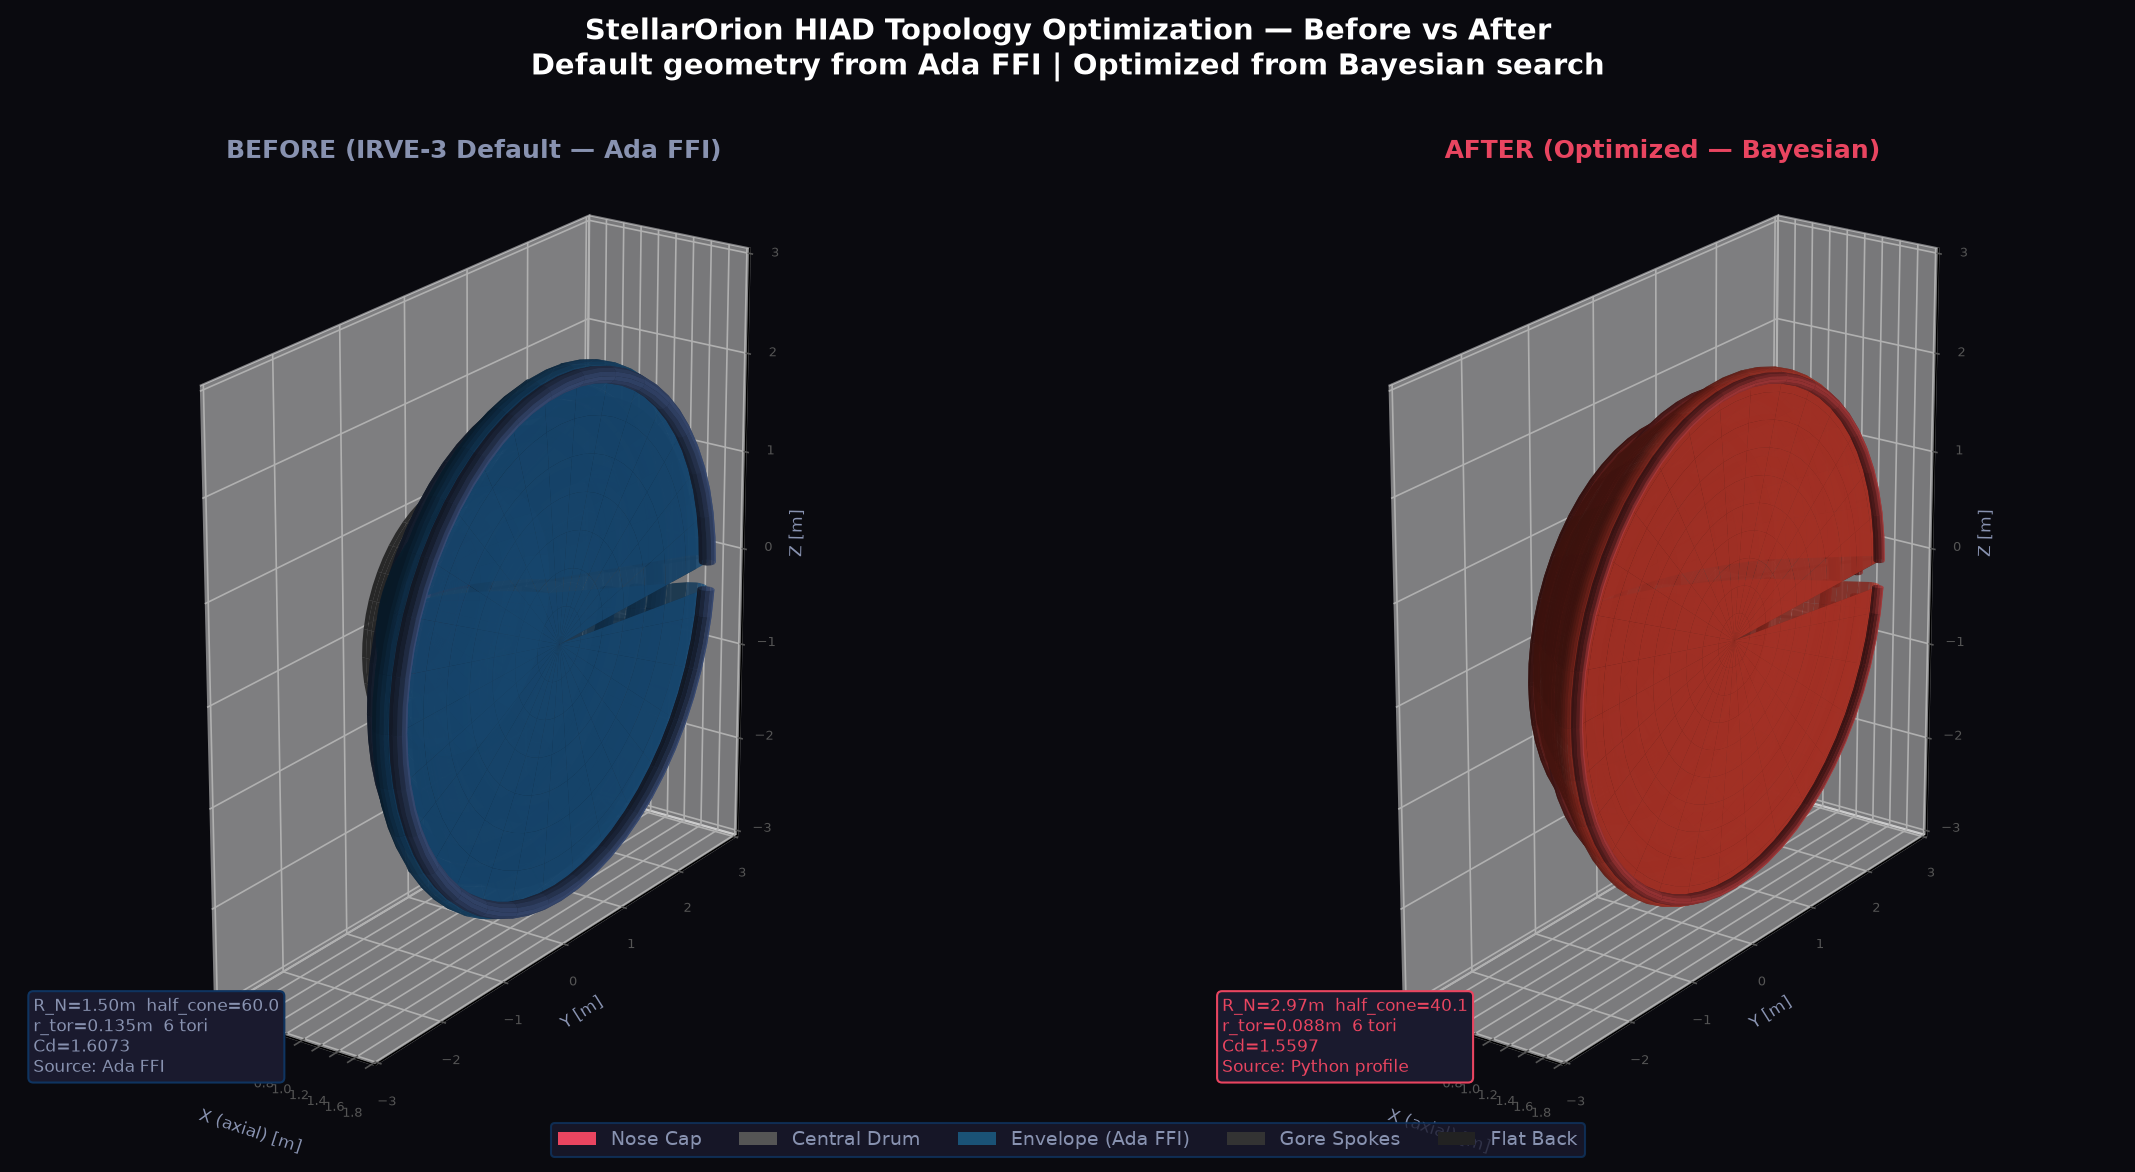
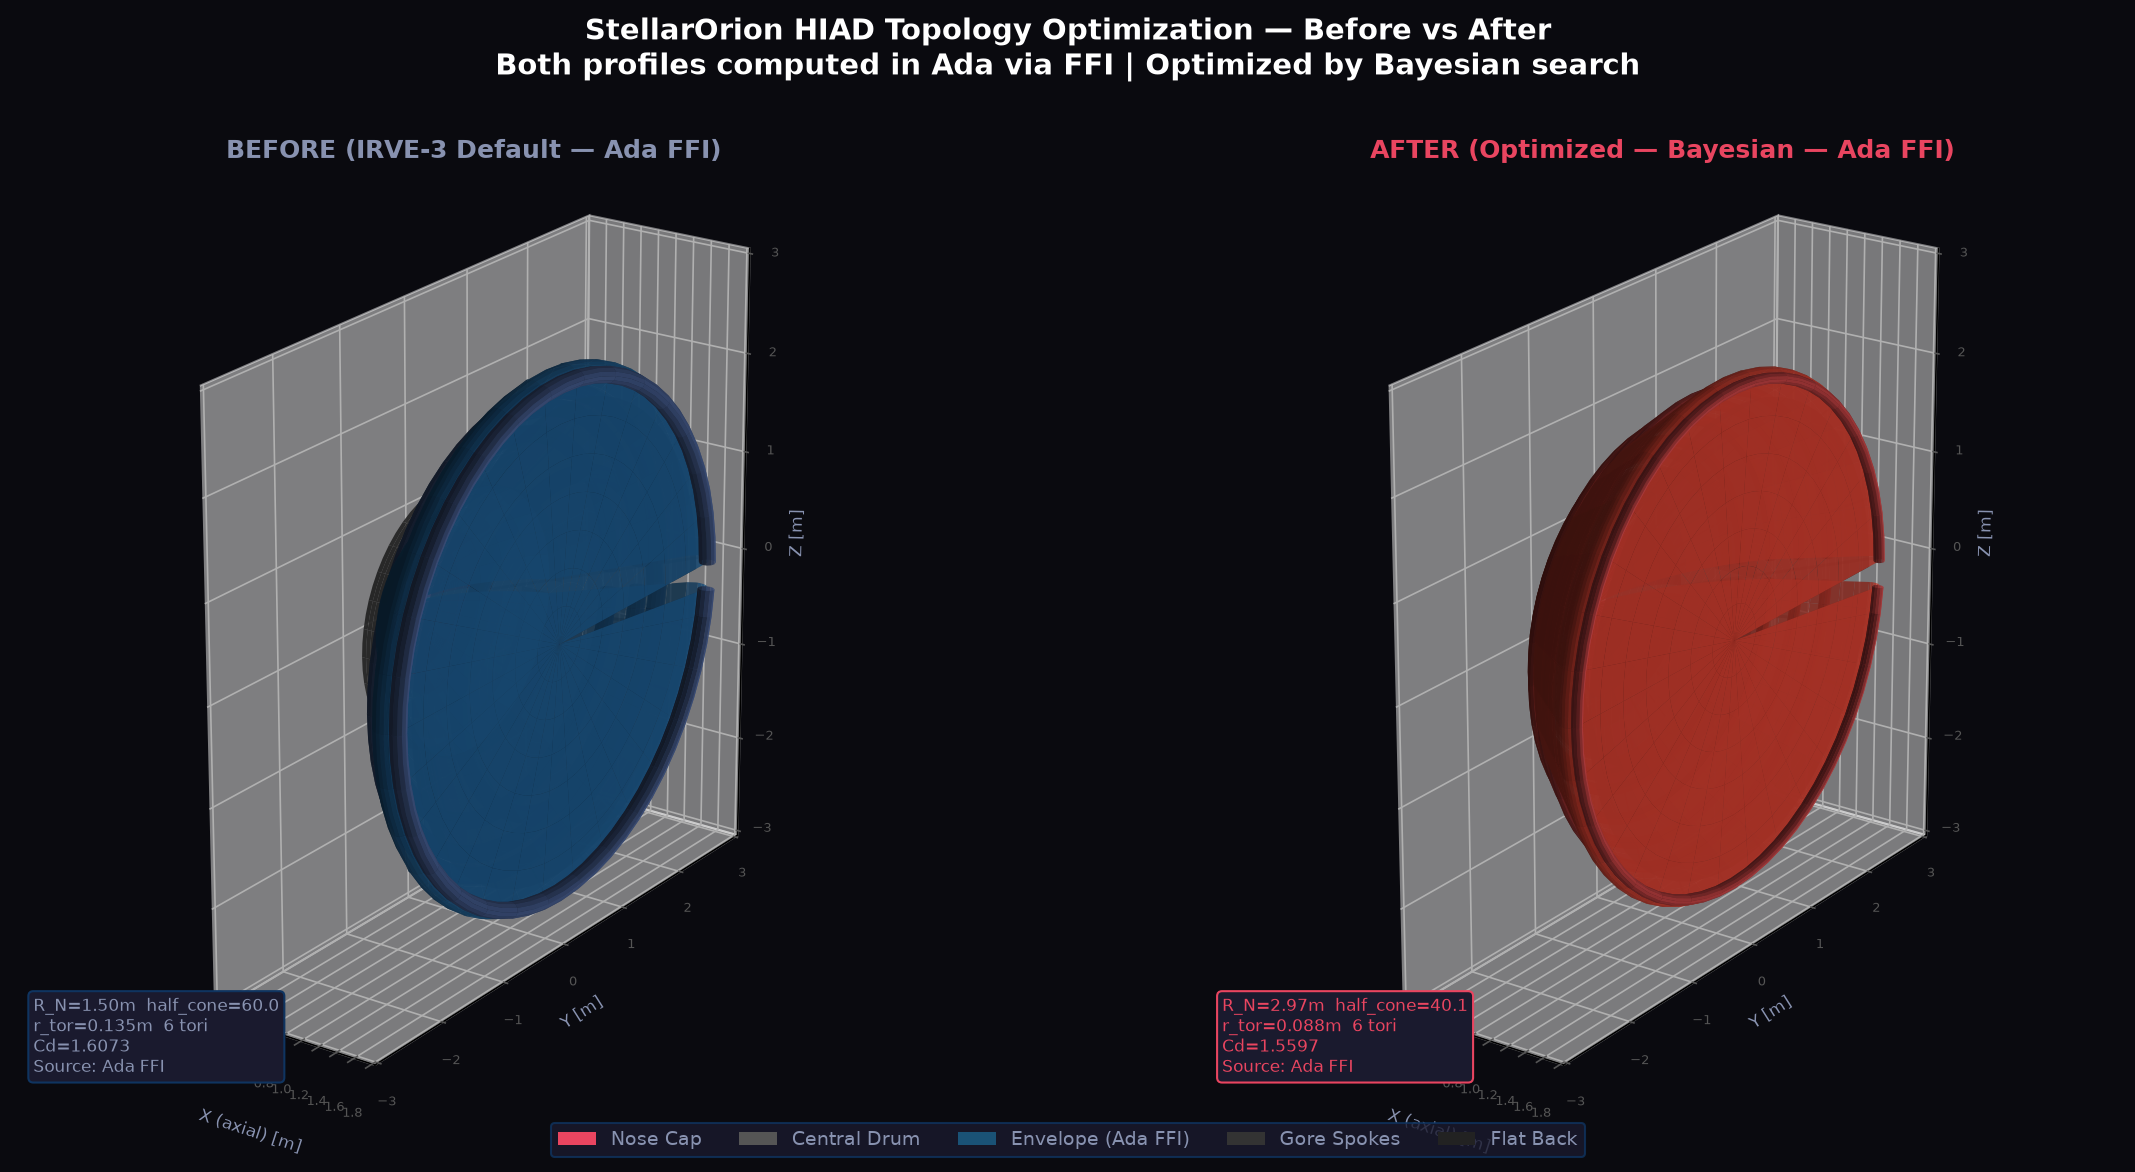
feat(hiad): parameterize cross-section FFI — Ada Get_HIAD_Cross_Section_Params drives optimized-profile rendering
- Ada: Get_HIAD_Cross_Section_Params(R_N, R_Torus, Half_Cone_Deg) is now
  the single source of truth for the 4-segment flat-skin math; the IRVE-3
  Get_HIAD_Cross_Section is a thin wrapper with baseline literals
  (byte-identical output — constants moved from body to call site)
- Python: get_hiad_cross_section_params() ctypes binding (c_float ABI,
  Ada Float is 32-bit) with fail-closed GIGO validation before the FFI
  boundary (Ada lib builds with assertions disabled)
- render_optimization_comparison.py draws the Bayesian-optimization
  winner through the Ada FFI instead of the Python replica; crosschecks
  FFI vs replica (default 0.0014 m, optimized 0.0038 m, both << tol),
  params loaded at runtime from hiad_optimization_results.json (never
  hardcoded); titles/labels now say Ada FFI
- regenerated optimization_comparison.png (both panels Source: Ada FFI)
- GNATprove gates, exit 0: program gpr 527/400/103/24-flow == HEAD
  reproduction exactly (README 552/401/48 predates the -gnatdA removal
  in bdddb47 — same-config delta, not code); pinn_lib gpr 525/399/103
  == HEAD baseline exactly (unit covered by this project; body is
  SPARK_Mode Off so obligations unchanged, 9->10 subprograms listed)
- lint: ruff ada_pinn_wrapper 4 errors (= pre-existing baseline),
  render_optimization_comparison 0; py_compile clean; smoke test
  DEFAULTS_IDENTITY=True n=57, GIGO reject OK

Changed region(s): [[0.2164, 0.0307, 0.7728, 0.0614], [0.6492, 0.1229, 0.9274, 0.1536], [0.6183, 0.8908, 0.6492, 0.9215]]

diff --git a/stellarorion_program_proc/scripts/render_optimization_comparison.py b/stellarorion_program_proc/scripts/render_optimization_comparison.py
@@ -9,7 +9,9 @@ Bayesian-optimized HIAD geometries.
 
 GEOMETRY SOURCE:
   - Default: Ada FFI get_hiad_cross_section() — single source of truth
-  - Optimized: 4-segment Rapisarda profile computed in Python (same math as Ada)
+  - Optimized: Ada FFI get_hiad_cross_section_params() — the SAME Ada/SPARK
+    math, parameterized by the BO winner (profile math runs in Ada;
+    Python only renders the mesh — both curves are Ada FFI)
   - Parameters (both panels): hiad_optimization_results.json loaded at runtime
     — NEVER hardcoded; re-running hiad_optimizer.py updates this render
 
@@ -22,8 +24,9 @@ COORDINATE FRAME (AXIOM — all meshes MUST match revolve_profile):
     producing a wrongly oriented HIAD (fixed 2026-09-24).
 
 VERIFICATION:
-  - crosscheck_ada_profile(): Python default profile vs Ada FFI — loud WARNING
-    on drift (math went wrong) or OSError (dylib missing)
+  - crosscheck_ada_profile(): Python replica vs Ada FFI for BOTH the default
+    and the optimized profile — loud WARNING on drift (math went wrong) or
+    OSError (dylib missing); exit code 2 signals drift
   - scripts/verify_profile_math.py + CrossHair: invariants on profile math
 
 HIAD CONSTRUCTION FEATURES:
@@ -72,17 +75,50 @@ def get_ada_default_profile() -> tuple[list[float], list[float], int]:
     return result["x"], result["y"], result["n"]
 
 
+def get_ada_profile_params(
+    r_n: float,
+    r_tor: float,
+    half_cone_deg: float,
+) -> tuple[list[float], list[float], int]:
+    """Get a parameterized HIAD cross-section from Ada FFI (same Ada math).
+
+    Calls Get_HIAD_Cross_Section_Params via ctypes with arbitrary geometry
+    parameters (used for the Bayesian-optimized profile). Returns
+    (x_list, y_list, n) where x=axial, y=radial.
+
+    Raises:
+      OSError      — libstellarorion_pinn.dylib absent/not loadable
+      ValueError   — non-physical parameters (GIGO fail-closed in wrapper)
+      AttributeError/RuntimeError — FFI symbol missing (stale dylib)
+
+    Safety fallback: caller must handle OSError/ValueError/AttributeError/
+    RuntimeError and fail closed (never render a fabricated profile).
+
+    [Citation: ada_pinn_wrapper.py get_hiad_cross_section_params]
+    [Citation: stellarorion_pinn_trajectory.ads — Get_HIAD_Cross_Section_Params]
+    """
+    script_dir = Path(__file__).resolve().parent
+    src_python = script_dir.parent / "src" / "python"
+    sys.path.insert(0, str(src_python))
+
+    from ada_pinn_wrapper import get_hiad_cross_section_params
+    result = get_hiad_cross_section_params(r_n, r_tor, half_cone_deg)
+    return result["x"], result["y"], result["n"]
+
+
 def crosscheck_ada_profile(
     py_x: list[float],
     py_y: list[float],
     rtol: float = 5e-3,
     atol: float = 2e-3,
+    ada_profile: tuple[list[float], list[float], int] | None = None,
 ) -> bool:
-    """Cross-check Python default profile against Ada FFI via arc-length.
+    """Cross-check a Python profile against Ada FFI via arc-length.
 
     -- AXIOMS:
-    --   A1: Ada Get_HIAD_Cross_Section and hiad_geometry.generate_cross_section
-    --       implement the same 4-segment math for identical parameters.
+    --   A1: Ada Get_HIAD_Cross_Section(_Params) and
+    --       hiad_geometry.generate_cross_section implement the same
+    --       4-segment math for identical parameters.
     --   A2: The meridian is a closed polyline (nose tip → flat-back → axis),
     --       NOT a function y=f(x): segment 4 (flat back) has constant axial
     --       x with many radial y values. Interpolating y as f(x) on that
@@ -97,10 +133,12 @@ def crosscheck_ada_profile(
     --       pointwise geometric disagreement along the meridian.
     --   T2: From A4: print WARNING to stderr and return False — never raise
     --       so the render can still proceed for visual inspection.
-    -- -- APPLICATIONS: main() calls this after loading both profiles and
-    --   uses the boolean for figure annotation / process exit status.
+    -- -- APPLICATIONS: main() calls this once per panel (default profile:
+    --   ada_profile=None loads the default Ada FFI profile; optimized
+    --   profile: main passes the tuple returned by get_ada_profile_params)
+    --   and uses the booleans for figure annotation / process exit status.
     -- -- CITATIONS:
-    --   [Citation: ada_pinn_wrapper.get_hiad_cross_section]
+    --   [Citation: ada_pinn_wrapper.get_hiad_cross_section(_params)]
     --   [Citation: arclength parameterization — do Carmo (1976)]
     --
     -- SAFETY FALLBACK: returns False + stderr WARNING on any failure;
@@ -116,7 +154,10 @@ def crosscheck_ada_profile(
         return False
 
     try:
-        ada_x, ada_y, n_ada = get_ada_default_profile()
+        if ada_profile is None:
+            ada_x, ada_y, n_ada = get_ada_default_profile()
+        else:
+            ada_x, ada_y, n_ada = ada_profile
     except (OSError, AttributeError, RuntimeError) as exc:
         print(f"[WARNING] Ada FFI cross-check unavailable: {exc} — "
               f"Python profile used WITHOUT Ada validation",
@@ -786,15 +827,32 @@ def main() -> int:
     print("Cross-checking Python default profile against Ada FFI...")
     ada_ok = crosscheck_ada_profile(x_def_py, y_def_py)
 
-    # --- Compute optimized profile (same math as Ada, params from JSON) ---
+    # --- Get optimized profile from Ada FFI (same Ada math, JSON params) ---
     # [Citation: hiad_optimization_results.json — optimized block]
-    print("Computing optimized HIAD profile...")
-    x_opt, y_opt = compute_rapisarda_profile(
+    print("Loading optimized HIAD profile from Ada FFI...")
+    try:
+        x_opt, y_opt, n_opt = get_ada_profile_params(
+            opt["R_N"], opt["r_tor"], opt["half_cone_deg"])
+    except (OSError, AttributeError, RuntimeError, ValueError) as exc:
+        # Safety fallback: fail closed — never render a fabricated profile
+        print(f"[FATAL] Ada FFI unavailable for optimized profile: {exc}",
+              file=sys.stderr)
+        print("  Build libstellarorion_pinn.dylib (alr build) or run from "
+              "an environment where the dylib is on DYLD_LIBRARY_PATH.",
+              file=sys.stderr)
+        return 1
+    print(f"  Ada returned {n_opt} points, x=[{min(x_opt):.4f}, {max(x_opt):.4f}], "
+          f"y=[{min(y_opt):.4f}, {max(y_opt):.4f}]")
+
+    # --- Python replica of optimized profile for FFI cross-check ---
+    x_opt_py, y_opt_py = compute_rapisarda_profile(
         rn=opt["R_N"], half_cone_deg=opt["half_cone_deg"],
         r_tor=opt["r_tor"], n_tori=n_tori
     )
-    print(f"  Computed {len(x_opt)} points, x=[{min(x_opt):.4f}, {max(x_opt):.4f}], "
-          f"y=[{min(y_opt):.4f}, {max(y_opt):.4f}]")
+    print("Cross-checking Python optimized profile against Ada FFI...")
+    ada_opt_ok = crosscheck_ada_profile(
+        x_opt_py, y_opt_py, ada_profile=(x_opt, y_opt, n_opt),
+    )
 
     # Shared limits for fair side-by-side comparison
     x_max_all = max(max(x_def), max(x_opt))
@@ -833,7 +891,7 @@ def main() -> int:
                 half_cone_deg=opt["half_cone_deg"], r_tor=opt["r_tor"],
                 cd_value=opt["Cd"], rn=opt["R_N"],
                 is_optimized=True)
-    ax2.set_title('AFTER (Optimized — Bayesian)', color='#e94560', fontsize=12,
+    ax2.set_title('AFTER (Optimized — Bayesian — Ada FFI)', color='#e94560', fontsize=12,
                   fontweight='bold', pad=10)
     ax2.set_xlabel('X (axial) [m]', color='#8892b0', fontsize=8)
     ax2.set_ylabel('Y [m]', color='#8892b0', fontsize=8)
@@ -842,7 +900,8 @@ def main() -> int:
     _apply_view(ax2, x_max_all, r_max_all)
     opt_label = (f"R_N={opt['R_N']:.2f}m  half_cone={opt['half_cone_deg']:.1f}\n"
                  f"r_tor={opt['r_tor']:.3f}m  {n_tori} tori\n"
-                 f"Cd={opt['Cd']:.4f}\nSource: Python profile")
+                 f"Cd={opt['Cd']:.4f}\nSource: Ada FFI"
+                 + ("" if ada_opt_ok else "\n[Ada cross-check DRIFT]"))
     ax2.text2D(0.02, 0.02, opt_label,
         transform=ax2.transAxes, color='#e94560', fontsize=8,
         verticalalignment='bottom',
@@ -862,14 +921,14 @@ def main() -> int:
         labelcolor='#8892b0', bbox_to_anchor=(0.5, 0.01))
 
     fig.suptitle('StellarOrion HIAD Topology Optimization — Before vs After\n'
-                 'Default geometry from Ada FFI | Optimized from Bayesian search',
+                 'Both profiles computed in Ada via FFI | Optimized by Bayesian search',
         color='white', fontsize=14, fontweight='bold', y=0.97)
 
     plt.tight_layout(rect=(0, 0.05, 1, 0.93))
     out = Path(__file__).resolve().parent.parent / "optimization_comparison.png"
     plt.savefig(str(out), dpi=150, facecolor='#0a0a0f', bbox_inches='tight')
     print(f"Saved: {out}")
-    if not ada_ok:
+    if not (ada_ok and ada_opt_ok):
         print("[WARNING] Render written but Ada FFI cross-check FAILED — "
               "inspect the image and the WARNING above.", file=sys.stderr)
         return 2

diff --git a/stellarorion_program_proc/src/python/ada_pinn_wrapper.py b/stellarorion_program_proc/src/python/ada_pinn_wrapper.py
@@ -175,6 +175,20 @@ _ada_lib.stellarorion_pinn_trajectory__get_hiad_cross_section.argtypes = [
     ctypes.POINTER(ctypes.c_int),       # N_Pts (access Integer — pointer)
 ]
 
+#  Parameterized variant: same ABI plus three leading geometry params.
+#  Ada Float is 32-bit, so every scalar crosses as c_float (matches the
+#  working trajectory-package binds above — c_double would corrupt args).
+#  [Citation: Ada RM §3.5.7 — Float is a 32-bit floating point type]
+_ada_lib.stellarorion_pinn_trajectory__get_hiad_cross_section_params.restype = None
+_ada_lib.stellarorion_pinn_trajectory__get_hiad_cross_section_params.argtypes = [
+    ctypes.c_float,                     # R_N (nose sphere radius [m])
+    ctypes.c_float,                     # R_Torus (torus minor radius [m])
+    ctypes.c_float,                     # Half_Cone_Deg (cone half-angle [deg])
+    ctypes.POINTER(_Float_Array_200),   # X_Arr (axial coords, by reference)
+    ctypes.POINTER(_Float_Array_200),   # Y_Arr (radial coords, by reference)
+    ctypes.POINTER(ctypes.c_int),       # N_Pts (access Integer — pointer)
+]
+
 
 def get_hiad_cross_section():
     """Return the 4-segment HIAD flat-skin cross-section from Ada/SPARK.
@@ -194,6 +208,57 @@ def get_hiad_cross_section():
     #  Ada out params: X_Arr/Y_Arr passed by reference, N_Pts passed by copy.
     #  We pass all via byref() to ensure correct pointer semantics.
     _ada_lib.stellarorion_pinn_trajectory__get_hiad_cross_section(
+        ctypes.byref(x_arr), ctypes.byref(y_arr), ctypes.byref(n_pts),
+    )
+    n = n_pts.value
+    return {
+        "x": [x_arr[i] for i in range(n)],
+        "y": [y_arr[i] for i in range(n)],
+        "n": n,
+    }
+
+
+def get_hiad_cross_section_params(r_n, r_torus, half_cone_deg):
+    """Return the 4-segment HIAD flat-skin cross-section for ARBITRARY
+    geometry parameters via Ada/SPARK FFI.
+
+    Parameters:
+      r_n           -- nose sphere radius [m]         (must be > 0)
+      r_torus       -- torus minor (tube) radius [m]  (must be > 0)
+      half_cone_deg -- windward cone half-angle [deg] (0 < angle < 90)
+
+    Returns dict with:
+      x : list[float]  — axial coordinates (nose points +X)
+      y : list[float]  — radial coordinates (half-width)
+      n : int          — actual number of valid points
+
+    GIGO contract: this wrapper fail-closes on non-physical inputs before
+    crossing the FFI boundary (the Ada library runs with assertions
+    disabled, so it performs no runtime range checks itself).
+
+    All geometry math is computed in Ada/SPARK (single source of truth);
+    Python is a thin wrapper — used by render_optimization_comparison.py
+    to draw the Bayesian-optimized profile.
+    [Citation: Rapisarda (2023) Sec 3.7, Appendix C.1]
+    [Citation: stellarorion_pinn_trajectory.ads — Get_HIAD_Cross_Section_Params]
+    """
+    if r_n <= 0.0:
+        raise ValueError(f"r_n must be > 0 m, got {r_n!r}")
+    if r_torus <= 0.0:
+        raise ValueError(f"r_torus must be > 0 m, got {r_torus!r}")
+    if not 0.0 < half_cone_deg < 90.0:
+        raise ValueError(
+            f"half_cone_deg must be in (0, 90) deg, got {half_cone_deg!r}",
+        )
+    x_arr = _Float_Array_200()
+    y_arr = _Float_Array_200()
+    n_pts = ctypes.c_int(0)
+    #  Ada out params: X_Arr/Y_Arr passed by reference, N_Pts passed by
+    #  copy of the access value — same pointer semantics as the default
+    #  binding above.
+    _ada_lib.stellarorion_pinn_trajectory__get_hiad_cross_section_params(
+        ctypes.c_float(r_n), ctypes.c_float(r_torus),
+        ctypes.c_float(half_cone_deg),
         ctypes.byref(x_arr), ctypes.byref(y_arr), ctypes.byref(n_pts),
     )
     n = n_pts.value
